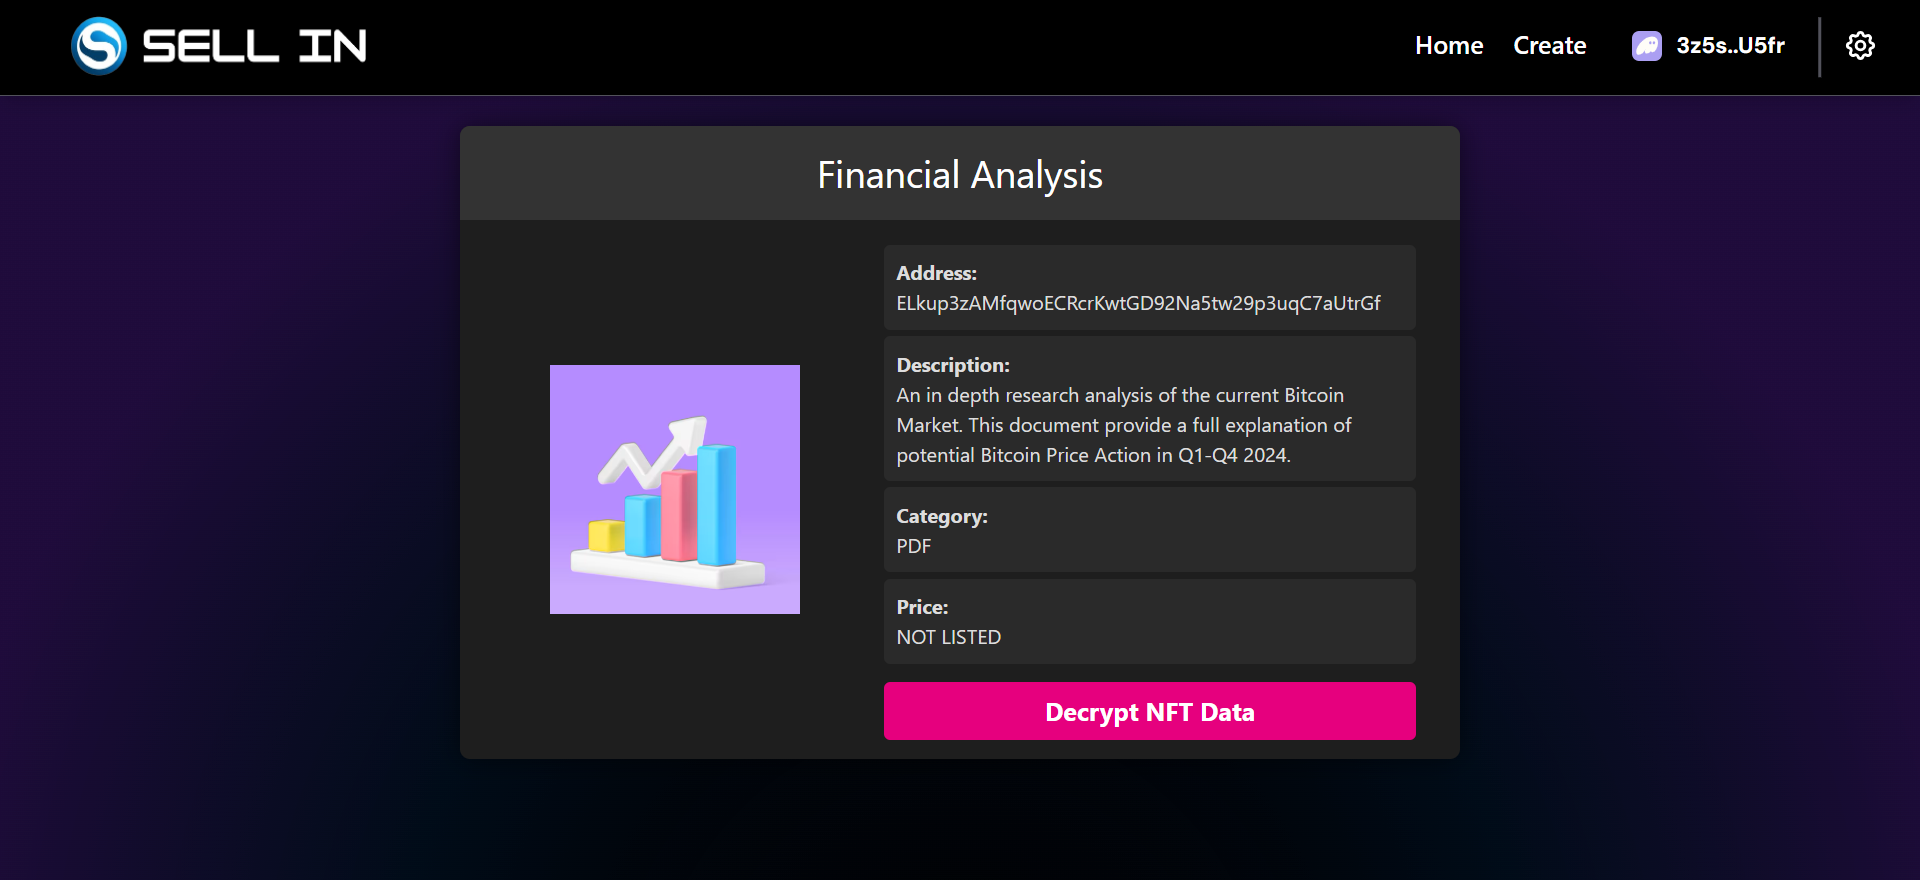
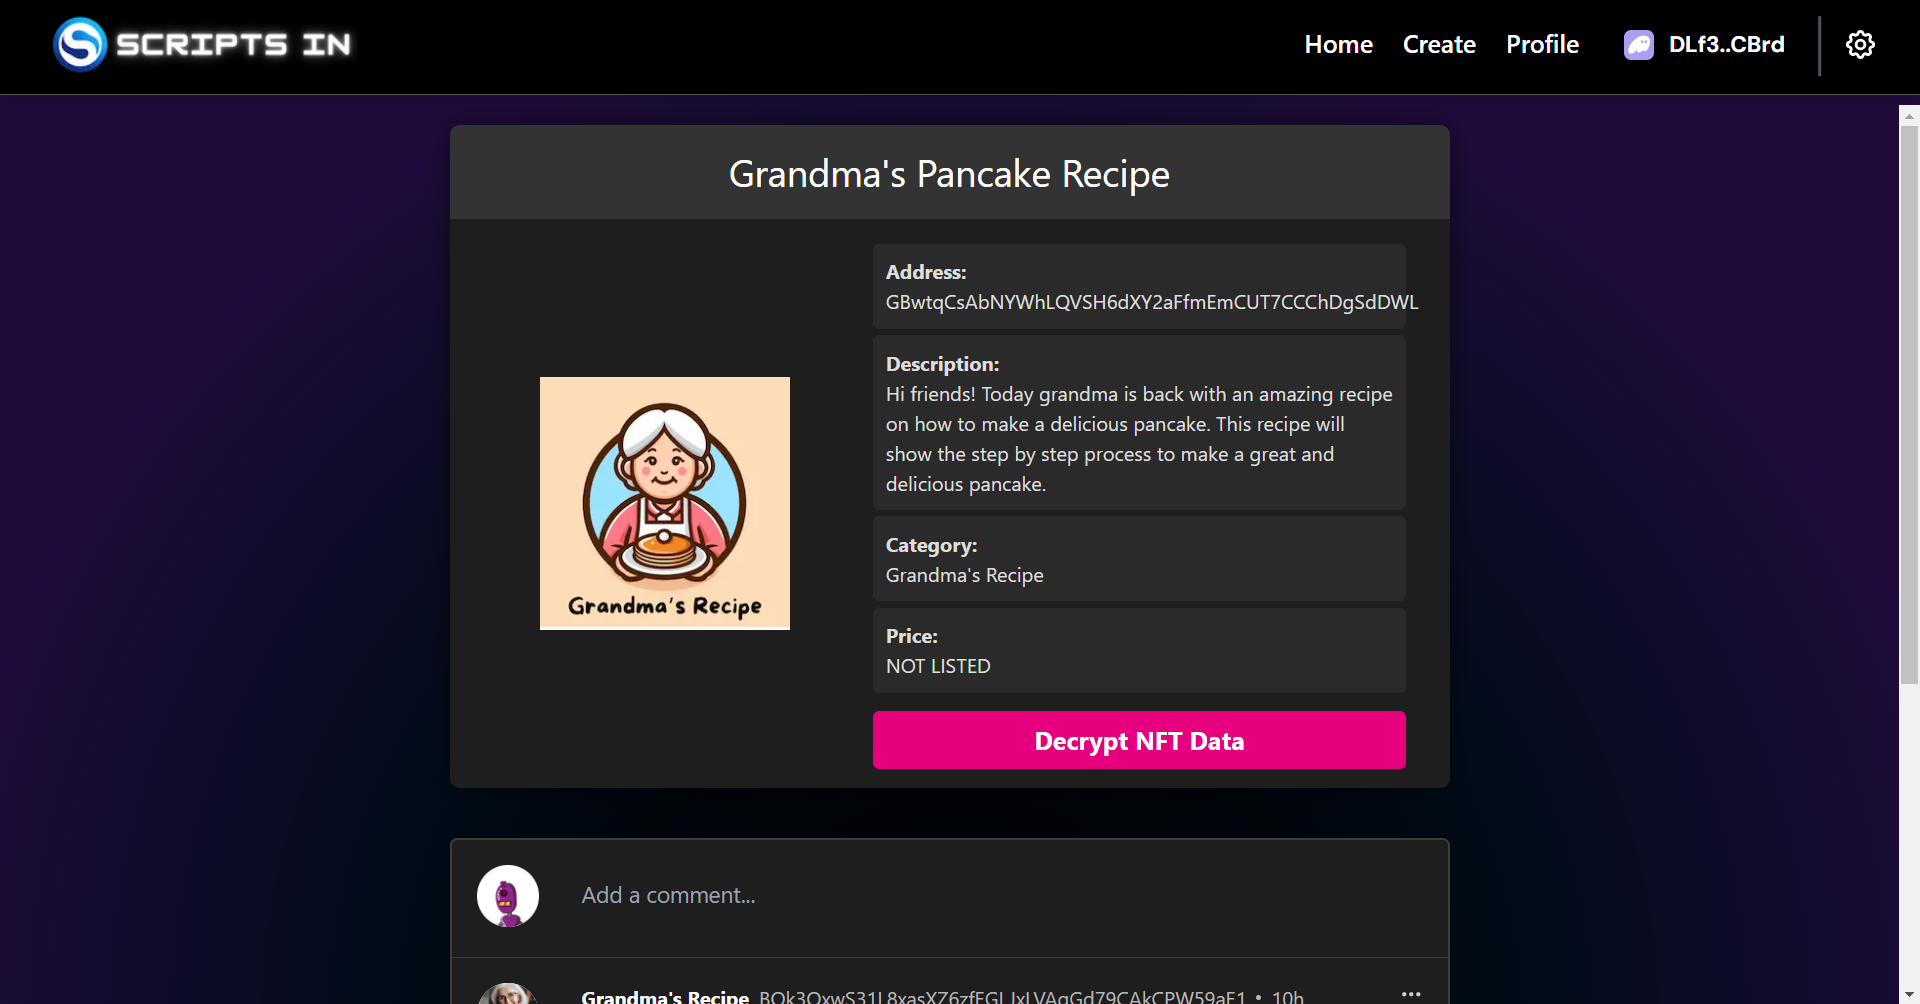
Change README.md

Changed region(s): [[0.2188, 0.2455, 0.7812, 1.0], [0.0, 0.0, 1.0, 1.0], [0.2812, 0.3682, 0.4375, 0.7057]]

diff --git a/README.md b/README.md
@@ -1,23 +1,48 @@
-# Sell In
+# Scripts In
 
 ![](public/display_title.png) 
 
-The Decentralized Marketplace to Tokenize and Monetize your data into Encrypted NFTs.
+Scripts In is a Social-Fi protocol for creators to build their community and sell exclusive content through NFTs. By combining on-chain and decentralized storages, users would buy NFTs from creators to gain access to the content.
+
+The protocol also rewards both users and creators based on their platform activities with SCRIPTS Points. The system would encourage users to actively interact within the community to gain more SCRIPTS points.
 
 ## Links:
-- [Demo Video (1 minute)](https://youtu.be/fMATQ2lzTsE?si=-9o-uvqoKMtaHpYu)
-- [Pitch Video (1minute)](https://youtu.be/WPAjbi36pOY?si=6CmTWjXPaXoHJeMG)
+- [Demo Video (1 minute)](https://youtu.be/MtgrcHBjI4M)
+- [Pitch Video (3 minute)](https://youtu.be/Yi7RLjt4C-A)
+- [Link Tree](https://linktr.ee/scripts_in)
 
-## Empowering Encrypted NFTs for Secure Tokenized Data:
+## Empowering Encrypted NFTs for Exclusive Social Network Protocol:
+![](public/storage.png)
+
+Scripts In uses both on-chain and off-chain storage to store its protocol data.
+
 ![](public/structure.png)
 
-This is How Your Data Looks Like On IPFS:
-![](public/structure.png)
+## Script Points
+![](public/script_point.png)
+
+Scripts Points, stands for Share, Create, React, Invite, Post, Trade, Sell.
+
+Users and creators would be rewarded with this points for their activities.
+This system would promote community competition to be active in the protocol to earn more points, so they could earn rewards in the future projects. This would boost the activity within the community & ecosystem.
+
+The protocol revenues will then be used as community rewards for users based on their accumulated points, such as airdrops, rewards & benefits, as well as potential SCRIPTS IN token launch after its protocol's success.
+
+## Social Community
+
+This social platforms let creators build their online community to promote their exclusive contents.
+
+![](public/community.png)
+
 
 ## Display
 
-Sell In Home Page
-![](public/homepage.png) 
+SCRIPTS IN Home Page
+![](public/homepage1.png) 
+![](public/homepage2.png) 
+
+User Profile
+![](public/profile.png) 
 
 Example NFT On Sell In
 ![](public/nft_display.png) 
